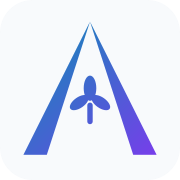
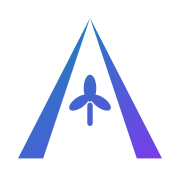
Update branding, contact page, nav, and layout spacing
- Regenerate favicon/icons to match site palette (teal→purple gradient, transparent bg)
- Remove Contact.astro component; contact section now lives at /contact page
- /contact: GHL form embed with proper src/attributes, ResizeObserver height sync,
  ep-close/minimize icons hidden, header spacing reduced, footer overlap fixed
- Nav: SVG logo, hamburger mobile menu, all CTAs point to /contact
- Hero: "Get In Touch" links to /contact; mobile-first centering
- global.css: section padding reduced 100px → 20px to tighten layout

diff --git a/src/styles/global.css b/src/styles/global.css
@@ -137,7 +137,7 @@ nav.scrolled {
 @keyframes float1 { 0%,100% { transform: translate(0,0); } 50% { transform: translate(-30px,20px); } }
 @keyframes float2 { 0%,100% { transform: translate(0,0); } 50% { transform: translate(20px,-30px); } }
 
-.hero-content { padding: 120px 0 80px; position: relative; z-index: 1; }
+.hero-content { padding: 80px 0 56px; position: relative; z-index: 1; }
 .hero-badge {
   display: inline-flex; align-items: center; gap: 8px;
   background: var(--teal-dim); border: 1px solid var(--border);
@@ -169,7 +169,7 @@ nav.scrolled {
 .stat-label { font-size: 0.85rem; color: var(--muted); margin-top: 4px; }
 
 /* ══════════════════ SERVICES ══════════════════ */
-#services { padding: 100px 0; }
+#services { padding: 20px 0; }
 .services-grid {
   display: grid;
   grid-template-columns: repeat(auto-fit, minmax(300px, 1fr));
@@ -207,7 +207,7 @@ nav.scrolled {
 
 /* ══════════════════ ABOUT ══════════════════ */
 #about {
-  padding: 100px 0;
+  padding: 20px 0;
   background: linear-gradient(180deg, transparent, rgba(241,245,249,0.8), transparent);
 }
 .about-grid { display: grid; grid-template-columns: 1fr 1fr; gap: 80px; align-items: center; }
@@ -256,7 +256,7 @@ nav.scrolled {
 
 /* ══════════════════ TESTIMONIALS ══════════════════ */
 #testimonials {
-  padding: 100px 0;
+  padding: 20px 0;
   background: linear-gradient(180deg, transparent, rgba(241,245,249,0.6), transparent);
 }
 .testimonial-grid {
@@ -307,7 +307,7 @@ nav.scrolled {
 .testimonial-meta a:hover { color: var(--teal); }
 
 /* ══════════════════ BLOG ══════════════════ */
-#blog { padding: 100px 0; }
+#blog { padding: 20px 0; }
 .blog-grid {
   display: grid;
   grid-template-columns: repeat(auto-fit, minmax(300px, 1fr));
@@ -348,7 +348,7 @@ nav.scrolled {
 .blog-read { color: var(--teal); font-weight: 600; }
 
 /* ══════════════════ CONTACT ══════════════════ */
-#contact { padding: 100px 0; }
+#contact { padding: 20px 0; }
 .contact-wrapper {
   display: grid; grid-template-columns: 1fr 1.4fr; gap: 64px; align-items: start;
 }
@@ -424,7 +424,7 @@ footer {
 }
 
 /* ══════════════════ FAQ ══════════════════ */
-#faq { padding: 100px 0; }
+#faq { padding: 20px 0; }
 
 .faq-contact-link {
   color: var(--teal); text-decoration: none; font-weight: 500;
